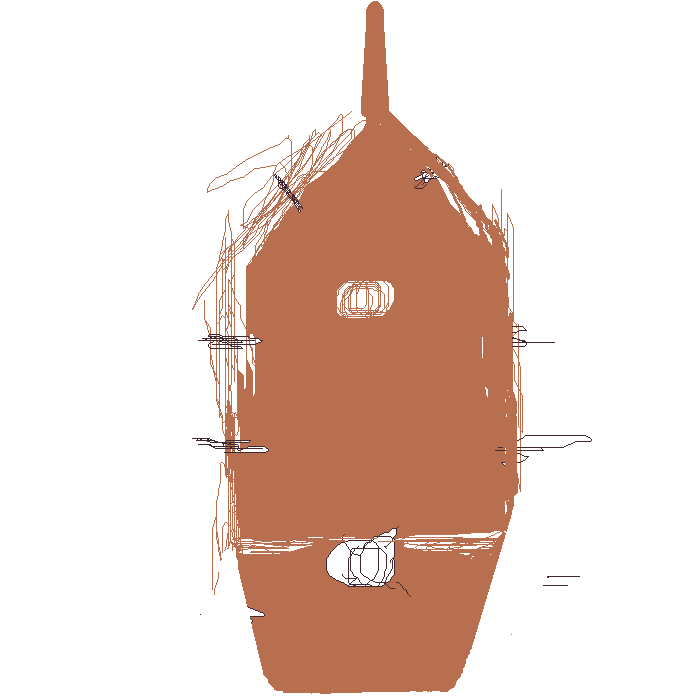
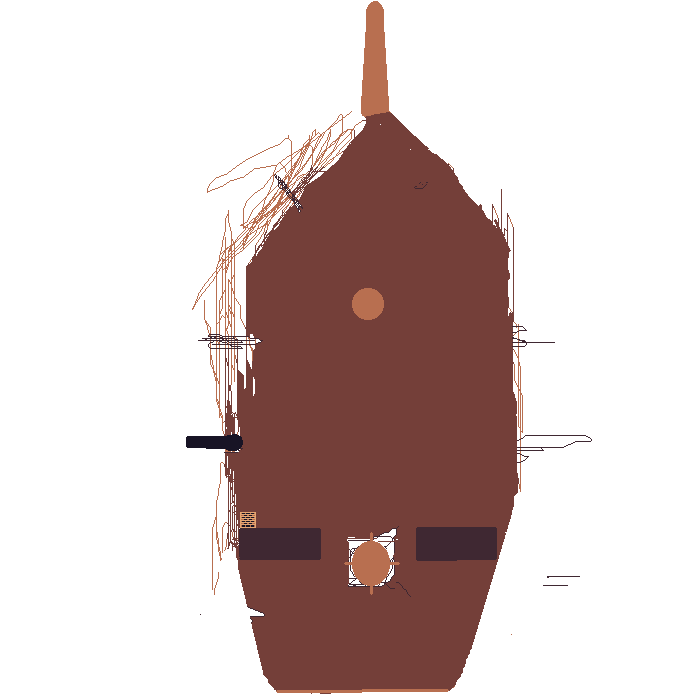
Added better boat and job system

Changed region(s): [[0.27, 0.15, 0.75, 0.99]]

diff --git a/core/src/org/loomy/BoatScreen.java b/core/src/org/loomy/BoatScreen.java
@@ -27,10 +27,14 @@ public class BoatScreen extends StageScreen{
         JobLocation jobLookout = new JobLocation(0, 0);
         JobLocation jobCannonRight = new JobLocation(110, -100);
         JobLocation jobCannonLeft = new JobLocation(-110, -100);
+        JobLocation jobAmmoLeft = new JobLocation(-110, -160);
+        JobLocation jobSteering = new JobLocation(0, -275);
 
         jobLocations.add(jobLookout);
         jobLocations.add(jobCannonRight);
         jobLocations.add(jobCannonLeft);
+        jobLocations.add(jobAmmoLeft);
+        jobLocations.add(jobSteering);
     }
 
     @Override

diff --git a/core/src/org/loomy/Crewman.java b/core/src/org/loomy/Crewman.java
@@ -1,4 +1,10 @@
 package org.loomy;
 
-public class Crewman {
+public class Crewman
+{
+    private Job job;
+    private Item item = Item.NO_ITEM;
+
+    public boolean hasJob() { return job != null; }
+    public boolean isEmptyHanded() { return item == Item.NO_ITEM; }
 }

diff --git a/desktop/src/org/loomy/desktop/DesktopLauncher.java b/desktop/src/org/loomy/desktop/DesktopLauncher.java
@@ -9,6 +9,7 @@ public class DesktopLauncher {
 		LwjglApplicationConfiguration config = new LwjglApplicationConfiguration();
 		config.width = 700;
 		config.height = 700;
+		config.resizable = false;
 		new LwjglApplication(new SteemitJam(), config);
 	}
 }

diff --git a/core/src/org/loomy/Job.java b/core/src/org/loomy/Job.java
@@ -1,5 +1,9 @@
 package org.loomy;
 
-public class Job
+public abstract class Job
 {
+    protected float workLeft;
+    public abstract void resetJob();
+    public abstract void updateJob(float delta);
+    public abstract Item requiresItem();
 }

diff --git a/core/src/org/loomy/JobLocation.java b/core/src/org/loomy/JobLocation.java
@@ -13,5 +13,5 @@ public class JobLocation extends Actor
         setY(y);
     }
 
-    public boolean isAvailable() { return crewman != null; }
+    public boolean isAvailable() { return crewman == null; }
 }

diff --git a/core/src/org/loomy/Item.java b/core/src/org/loomy/Item.java
@@ -1,0 +1,9 @@
+package org.loomy;
+
+public enum Item
+{
+    NO_ITEM,
+    CANNON,
+    GUN_POWDER,
+    RAMMER
+}
